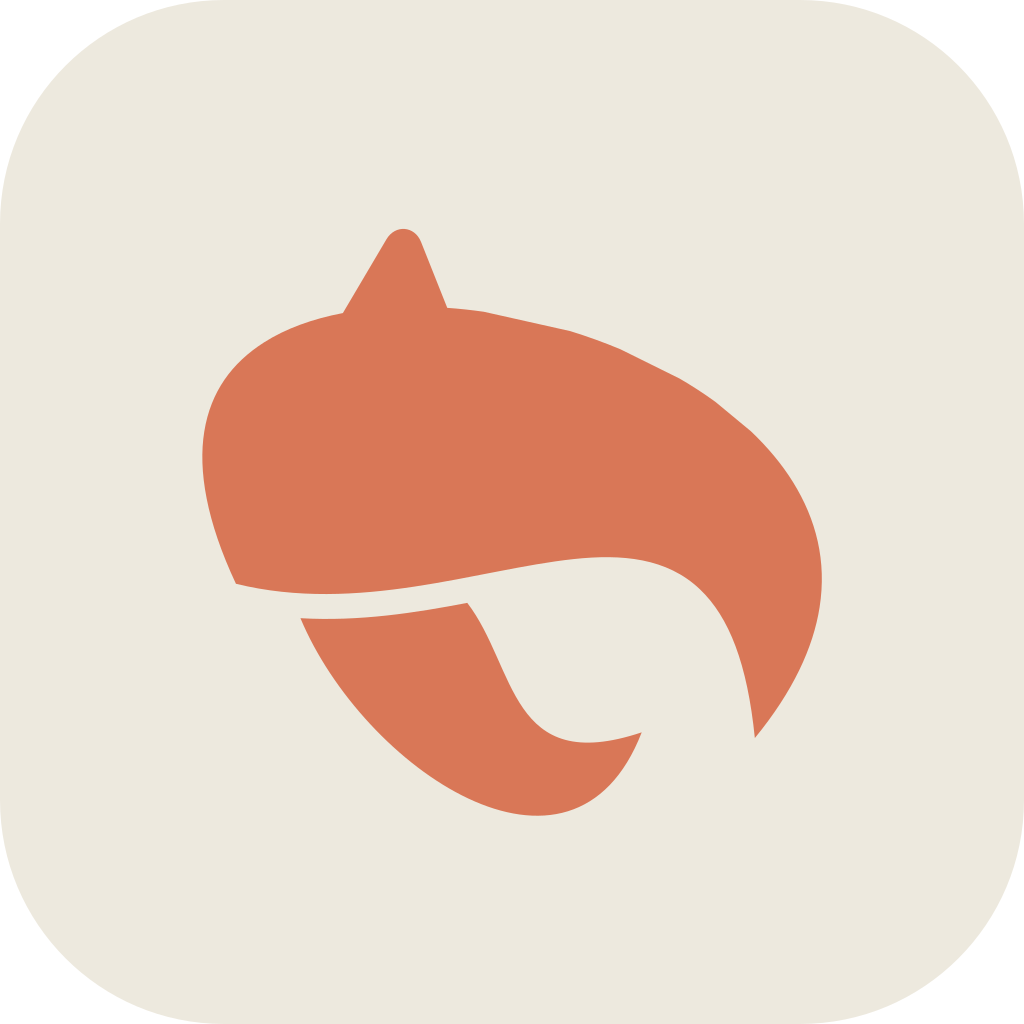
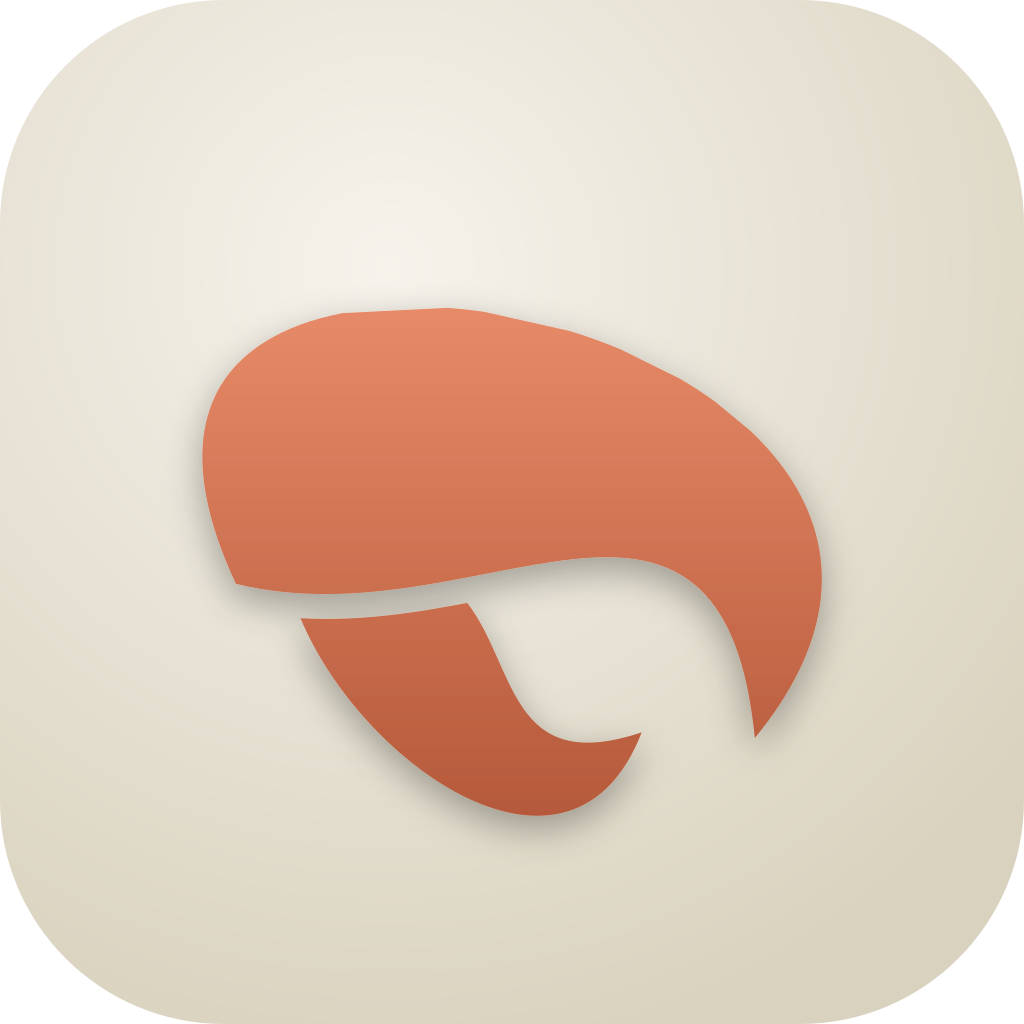
Cut the apex off entirely; add gradients + soft shadow to the dock tile
Spike removed for real this time. Replaced the cubic-rounded apex and
the two short segments leading into it with a single nearly-horizontal
closing line across the top of the upper pincer. The path now starts
at the upper-pincer tip (127.186, 104.469) and closes back to it
directly from the top-right of the body, so there is no upward
protrusion — flat cap.

Dock icon gets depth via:
- Radial gradient on the cream tile (highlight at upper-left fading to
  soft stone at lower-right).
- Vertical terracotta gradient on the claw (warmer coral up top,
  deeper rust at the base) so it reads as lit-from-above rather than
  a pasted silhouette.
- Soft feGaussianBlur drop-shadow under the claw (offset 10 down,
  0.32 alpha) — the claw floats off the tile.

Tray icons stay flat black; they're template images that macOS tints
inline in the menu bar, and filters/gradients would break that.

diff --git a/src/renderer/App.tsx b/src/renderer/App.tsx
@@ -31,7 +31,7 @@ const api = window.quietclaw
 function ClawIcon({ className }: { className?: string }) {
   return (
     <svg className={className} viewBox="0 0 512 512" fill="currentColor">
-      <path d="M186.756 50.245c-4.88-12.28-19.63-13.4-26.34-2.04l-33.23 56.264c-23.017 4.384-43.547 11.782-60.124 22.374-24.436 15.613-40.572 37.414-45.5 67.875-4.79 29.62 1.568 68.087 24.125 116.093 93.162 22.88 184.08-10.908 257.25-18.813 37.138-4.012 71.196-.898 96.344 22.97 22.33 21.19 36.21 56.808 41.908 113.436 29.246-35.682 44.538-69.065 49.343-99.594 5.543-35.207-2.526-66.97-20.31-95.593-8.52-13.708-19.368-26.618-32-38.626l-27.001-22.375c-8.637-6.278-17.765-12.217-27.314-17.782l-45.187-22.376a423.505 423.505 0 0 0-38.158-13.812l-66-14.78c-9.344-1.316-18.625-2.333-27.812-2.97l-19.994-50.255zM222 325.345c-39.146 7.525-82.183 14.312-127.156 11.686 47.403 113.454 207.056 224.082 260.125 87-101.18 33.84-95.303-49.595-132.97-98.686z" />
+      <path d="M127.186 104.469c-23.017 4.384-43.547 11.782-60.124 22.374-24.436 15.613-40.572 37.414-45.5 67.875-4.79 29.62 1.568 68.087 24.125 116.093 93.162 22.88 184.08-10.908 257.25-18.813 37.138-4.012 71.196-.898 96.344 22.97 22.33 21.19 36.21 56.808 41.908 113.436 29.246-35.682 44.538-69.065 49.343-99.594 5.543-35.207-2.526-66.97-20.31-95.593-8.52-13.708-19.368-26.618-32-38.626l-27.001-22.375c-8.637-6.278-17.765-12.217-27.314-17.782l-45.187-22.376a423.505 423.505 0 0 0-38.158-13.812l-66-14.78c-9.344-1.316-18.625-2.333-27.812-2.97l-79.564 3.969zM222 325.345c-39.146 7.525-82.183 14.312-127.156 11.686 47.403 113.454 207.056 224.082 260.125 87-101.18 33.84-95.303-49.595-132.97-98.686z" />
     </svg>
   )
 }
